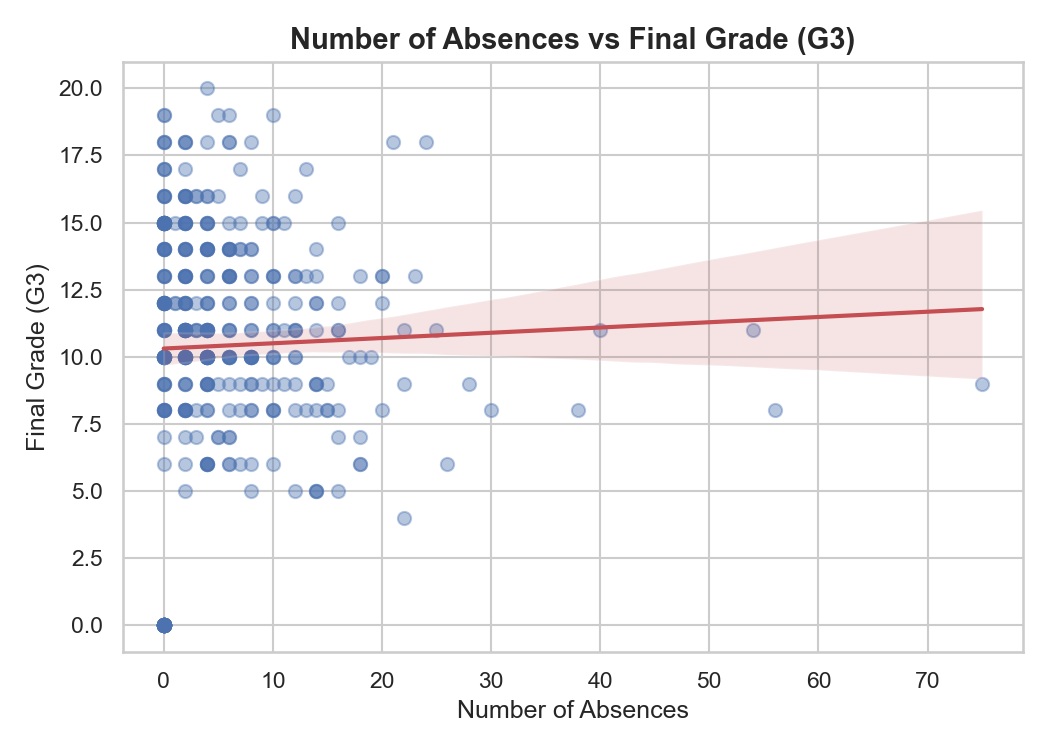
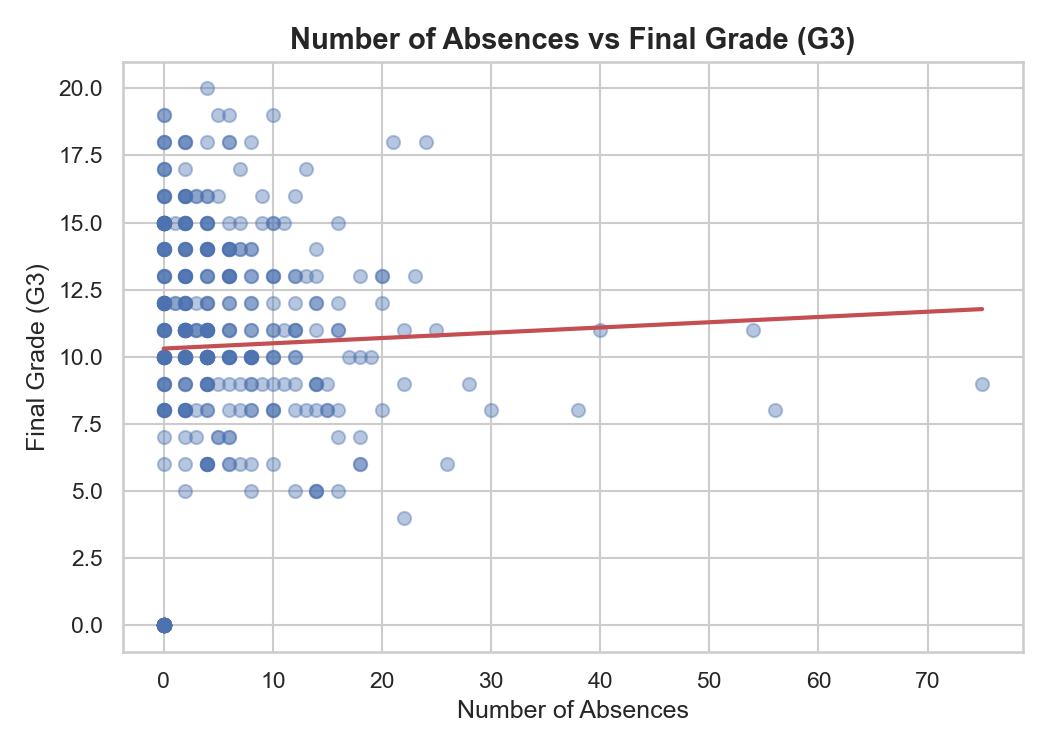
fixed absences_grade code so it doesnt change anymore

Changed region(s): [[0.1524, 0.276, 0.9448, 0.5213]]

diff --git a/scripts/mat_phase2_plots.py b/scripts/mat_phase2_plots.py
@@ -119,6 +119,7 @@ fig, ax = plt.subplots(figsize=(7, 5))
 sns.regplot(data=df_raw, x="absences", y="G3",
             scatter_kws={"alpha": 0.4, "s": 40, "color": "#4C72B0"},
             line_kws={"color": "#C44E52", "linewidth": 2},
+            ci=None,
             ax=ax)
 ax.set_title(f"{LABELS['absences']} vs {LABELS['G3']}", fontsize=14, fontweight="bold")
 ax.set_xlabel(LABELS["absences"], fontsize=12)

diff --git a/scripts/por_phase2_plots.py b/scripts/por_phase2_plots.py
@@ -103,6 +103,7 @@ fig, ax = plt.subplots(figsize=(7, 5))
 sns.regplot(data=df_raw, x="absences", y="G3",
             scatter_kws={"alpha": 0.4, "s": 40, "color": "#4C72B0"},
             line_kws={"color": "#C44E52", "linewidth": 2},
+            ci=None,
             ax=ax)
 ax.set_title(f"{LABELS['absences']} vs {LABELS['G3']} — Portuguese",
              fontsize=14, fontweight="bold")
